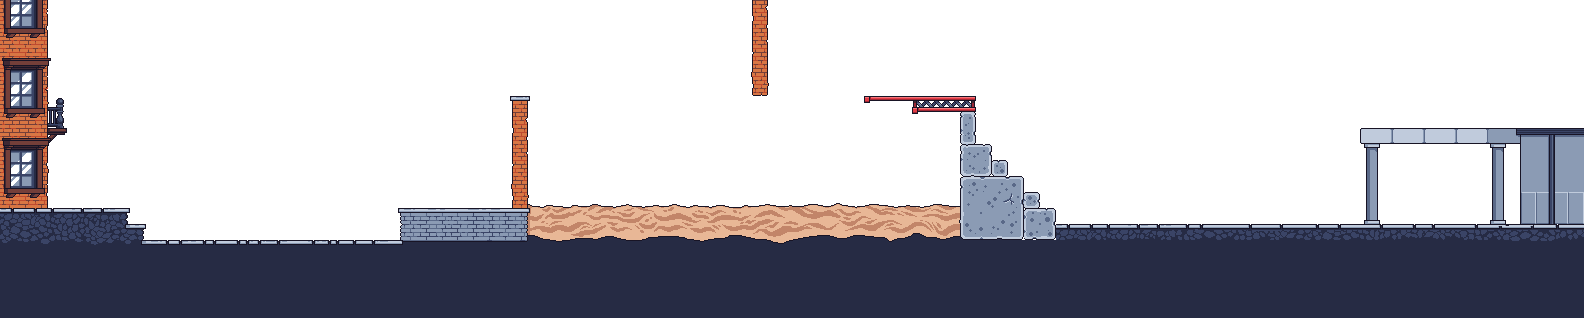
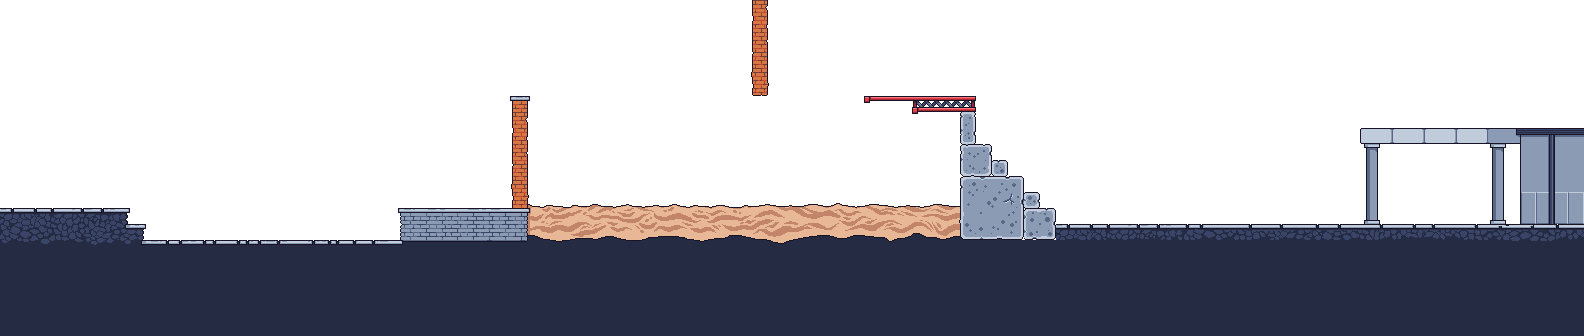
Added hole stencil "full" mode (fixes tutorial house)

diff --git a/changes.md b/changes.md
@@ -11,3 +11,4 @@ First Steam beta release after a year of development! If you had the game before
 - **Fix**: Quick restarting no longer has that small “intro”
 - **Fix**: Drill bees (temporary name) now give some fury when exploding
 - **Fix**: Ground floor music no longer plays when reviving a player 
+- **Fix**: Tutorial area doesn't have a cut off house anymore
